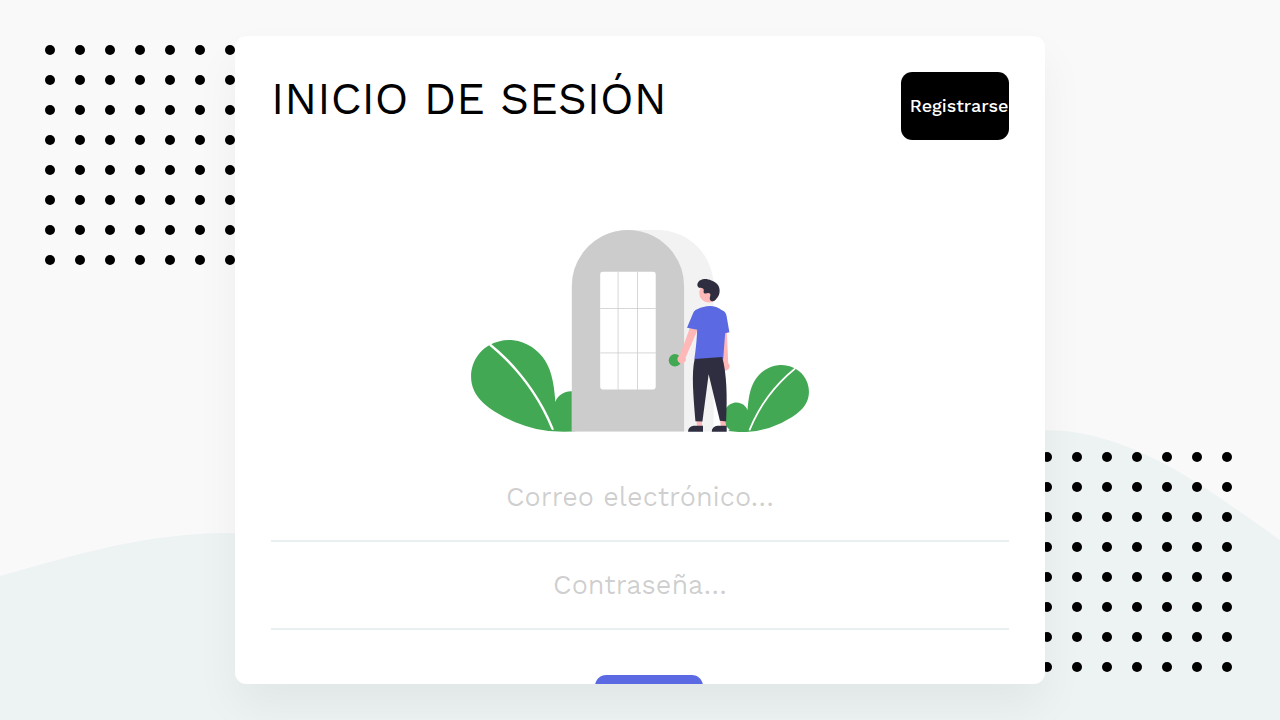
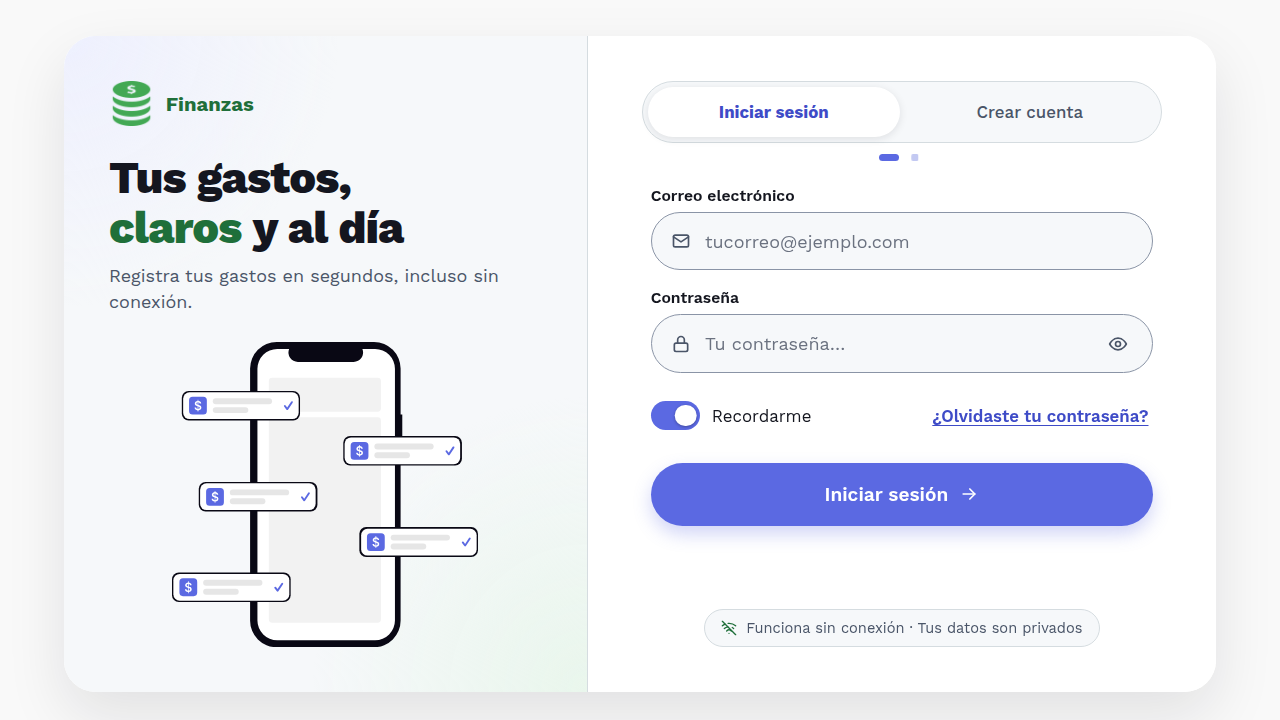
Renombra la app a Finanzas (finanzas.zfmanager.com)
- Nombre en el manifest, index.html, barra lateral, acceso y títulos de pantalla
- Capturas de instalación de la PWA regeneradas con el nombre nuevo

Claude-Session: https://claude.ai/code/session_013AvusbjvG6y26DZG7qhTqM

diff --git a/src/components/auth/PaginaAuth.jsx b/src/components/auth/PaginaAuth.jsx
@@ -491,7 +491,7 @@ const PaginaAuth = () => {
   return (
     <Pagina>
       <Helmet>
-        <title>{titulo} · Lista de Gastos</title>
+        <title>{titulo} · Finanzas</title>
       </Helmet>
 
       <Tarjeta>
@@ -499,7 +499,7 @@ const PaginaAuth = () => {
         <Hero>
           <Marca>
             <img src={logoMarca} width="40" height="40" alt="" />
-            <span>Lista de Gastos</span>
+            <span>Finanzas</span>
           </Marca>
           <HeroDetalle $compacto={compacto}>
             <div>
@@ -531,7 +531,7 @@ const PaginaAuth = () => {
         <Lateral>
           <Marca>
             <img src={logoMarca} width="40" height="40" alt="" />
-            <span>Lista de Gastos</span>
+            <span>Finanzas</span>
           </Marca>
           <div>
             <Titular>

diff --git a/public/index.html b/public/index.html
@@ -13,12 +13,12 @@
     <link rel="manifest" href="%PUBLIC_URL%/manifest.json" />
     <meta name="mobile-web-app-capable" content="yes" />
     <meta name="apple-mobile-web-app-capable" content="yes" />
-    <meta name="apple-mobile-web-app-title" content="Gastos" />
+    <meta name="apple-mobile-web-app-title" content="Finanzas" />
     <meta name="apple-mobile-web-app-status-bar-style" content="default" />
     <!-- Las fuentes de Google se cargan con webfontloader (src/index.js) -->
     <link rel="preconnect" href="https://fonts.googleapis.com" />
     <link rel="preconnect" href="https://fonts.gstatic.com" crossorigin />
-    <title>Lista de Gastos</title>
+    <title>Finanzas</title>
   </head>
   <body>
     <noscript>Necesitas activar JavaScript para usar esta aplicación.</noscript>

diff --git a/src/components/app/AppShell.jsx b/src/components/app/AppShell.jsx
@@ -265,7 +265,7 @@ const AppShell = () => {
       <Superior>
         <Marca>
           <img src={logoMarca} width="32" height="32" alt="" />
-          <span>Lista de Gastos</span>
+          <span>Finanzas</span>
         </Marca>
         <BotonSalirMovil type="button" aria-label="Cerrar sesión" onClick={() => cerrarSesion()}>
           <IconoSalir tam={22} />
@@ -276,7 +276,7 @@ const AppShell = () => {
         <MarcaLateral>
           <img src={logoMarca} width="40" height="40" alt="" />
           <div>
-            Lista de Gastos
+            Finanzas
             <small>Control de gastos</small>
           </div>
         </MarcaLateral>

diff --git a/src/components/paginas/PaginaEditar.jsx b/src/components/paginas/PaginaEditar.jsx
@@ -45,7 +45,7 @@ const PaginaEditar = () => {
   return (
     <Caja>
       <Helmet>
-        <title>Editar gasto · Lista de Gastos</title>
+        <title>Editar gasto · Finanzas</title>
       </Helmet>
       <BotonEnlace type="button" onClick={() => navigate("/lista")}>
         <IconoRegresar tam={16} /> Volver a la lista

diff --git a/src/components/paginas/PaginaLista.jsx b/src/components/paginas/PaginaLista.jsx
@@ -505,7 +505,7 @@ const PaginaLista = () => {
   return (
     <>
       <Helmet>
-        <title>Lista de gastos · Lista de Gastos</title>
+        <title>Lista de gastos · Finanzas</title>
       </Helmet>
 
       <Titulo>Lista de gastos</Titulo>

diff --git a/src/components/paginas/PaginaInicio.jsx b/src/components/paginas/PaginaInicio.jsx
@@ -257,7 +257,7 @@ const PaginaInicio = () => {
   return (
     <>
       <Helmet>
-        <title>Inicio · Lista de Gastos</title>
+        <title>Inicio · Finanzas</title>
       </Helmet>
 
       <Titulo>Hola, así van tus gastos</Titulo>

diff --git a/src/components/paginas/PaginaCategorias.jsx b/src/components/paginas/PaginaCategorias.jsx
@@ -370,7 +370,7 @@ const PaginaCategorias = () => {
   return (
     <>
       <Helmet>
-        <title>Categorías · Lista de Gastos</title>
+        <title>Categorías · Finanzas</title>
       </Helmet>
 
       <Encabezado>

diff --git a/PRODUCT.md b/PRODUCT.md
@@ -12,7 +12,7 @@ Personas en Colombia que llevan sus gastos personales o del hogar y, a la vez, l
 
 ## Product Purpose
 
-Lista de Gastos registra gastos por categoría y fecha, muestra el total del mes y el desglose por categoría. Su siguiente capacidad son los gastos recurrentes (nómina, recibos, créditos) con recordatorios. Éxito: registrar un gasto es tan rápido que la persona lo hace en el momento y no al final del día, y ningún pago recurrente se olvida.
+Finanzas (antes «Lista de Gastos»; dominio finanzas.zfmanager.com) registra gastos por categoría y fecha, muestra el total del mes y el desglose por categoría. Su siguiente capacidad son los gastos recurrentes (nómina, recibos, créditos) con recordatorios. Éxito: registrar un gasto es tan rápido que la persona lo hace en el momento y no al final del día, y ningún pago recurrente se olvida.
 
 ## Positioning
 
@@ -35,7 +35,7 @@ Una PWA instalable que funciona sin conexión y sincroniza sola al volver, con r
 
 ## Brand Commitments
 
-- Nombre: «Lista de Gastos».
+- Nombre: «Finanzas» (antes «Lista de Gastos»). Dominio: finanzas.zfmanager.com.
 - Logo: pila de monedas verde con símbolo $ (`src/img/logo.png`, iconos de la PWA en `public/`).
 - El usuario pidió **partir del estilo actual** (tipografía Work Sans, azul-violeta `#5B69E2`, verde `#43A854`, botones negros, ilustraciones del login y registro en `src/img/`) y mejorarlo, no reemplazarlo.
 
